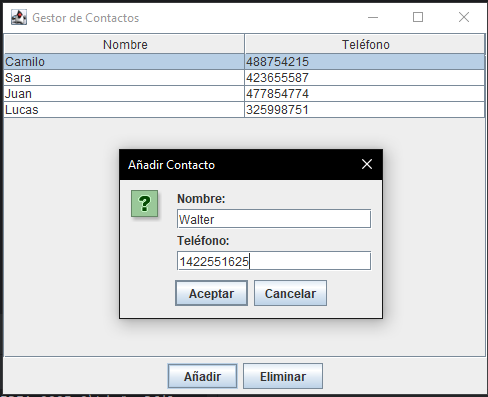
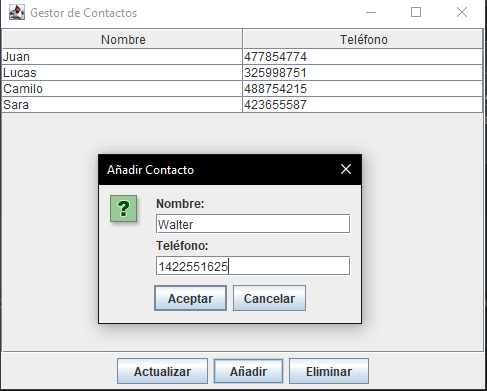
Añadir botón de actualizar y bloqueo de nombre

Changed region(s): [[0.0, 0.0, 1.0, 1.0], [0.1848, 0.3683, 0.8008, 0.8593]]

diff --git a/Tareas/Tarea6/Parte1/MainUI.java b/Tareas/Tarea6/Parte1/MainUI.java
@@ -14,13 +14,23 @@ public class MainUI extends JFrame {
 
     public MainUI(Archivo archivo) {
         this.archivo = archivo;
+
         setTitle("Gestor de Contactos");
         setSize(500, 400);
         setDefaultCloseOperation(JFrame.EXIT_ON_CLOSE);
         setLocationRelativeTo(null);
 
-        tableModel = new DefaultTableModel(new Object[]{"Nombre", "Teléfono"}, 0);
+        // Se crea un DefaultTableModel que permite editar únicamente la columna de teléfono
+        tableModel = new DefaultTableModel(new Object[]{"Nombre", "Teléfono"}, 0) {
+            @Override
+            public boolean isCellEditable(int row, int column) {
+                return column != 0;
+            }
+        };
+
         table = new JTable(tableModel);
+
+        // Al cambiar el número de teléfono de un contacto, se actualiza el registro
         tableModel.addTableModelListener(e -> {
             if (e.getType() == TableModelEvent.UPDATE) {
                 editContact();
@@ -28,22 +38,33 @@ public class MainUI extends JFrame {
         });
         JScrollPane scrollPane = new JScrollPane(table);
 
+        // Se crean los botones de actualizar, añadir y eliminar
+        JButton updateButton = new JButton("Actualizar");
         JButton addButton = new JButton("Añadir");
         JButton deleteButton = new JButton("Eliminar");
 
+        updateButton.addActionListener(e -> updateContacts());
         addButton.addActionListener(e -> addContact());
         deleteButton.addActionListener(e -> deleteContact());
 
         JPanel buttonPanel = new JPanel();
+        buttonPanel.add(updateButton);
         buttonPanel.add(addButton);
         buttonPanel.add(deleteButton);
 
         add(scrollPane, BorderLayout.CENTER);
         add(buttonPanel, BorderLayout.SOUTH);
 
+        // Lee los contactos del archivo y los muestra en la tabla
         updateContacts();
     }
 
+
+    /**
+     * Añade un contacto al archivo.
+     * Si el nombre o el teléfono están vacíos, muestra un mensaje de advertencia.
+     * Si el contacto se añade correctamente, actualiza la tabla.
+     */
     private void addContact() {
         JTextField nameField = new JTextField();
         JTextField phoneField = new JTextField();
@@ -69,6 +90,9 @@ public class MainUI extends JFrame {
         }
     }
 
+    /**
+     * Lee los contactos del archivo y los muestra en la tabla.
+     */
     private void updateContacts() {
         try {
             tableModel.setRowCount(0);
@@ -79,6 +103,9 @@ public class MainUI extends JFrame {
         }
     }
 
+    /**
+     * En realidad, este método elimina el contacto y lo vuelve a añadir.
+     */
     private void editContact() {
         int selectedRow = table.getSelectedRow();
         if (selectedRow >= 0) {
@@ -94,6 +121,11 @@ public class MainUI extends JFrame {
         }
     }
 
+    /**
+     * Elimina un contacto del archivo.
+     * Si no se ha seleccionado un contacto, muestra un mensaje de advertencia.
+     * Si el contacto se elimina correctamente, actualiza la tabla.
+     */
     private void deleteContact() {
         int selectedRow = table.getSelectedRow();
         if (selectedRow >= 0) {
